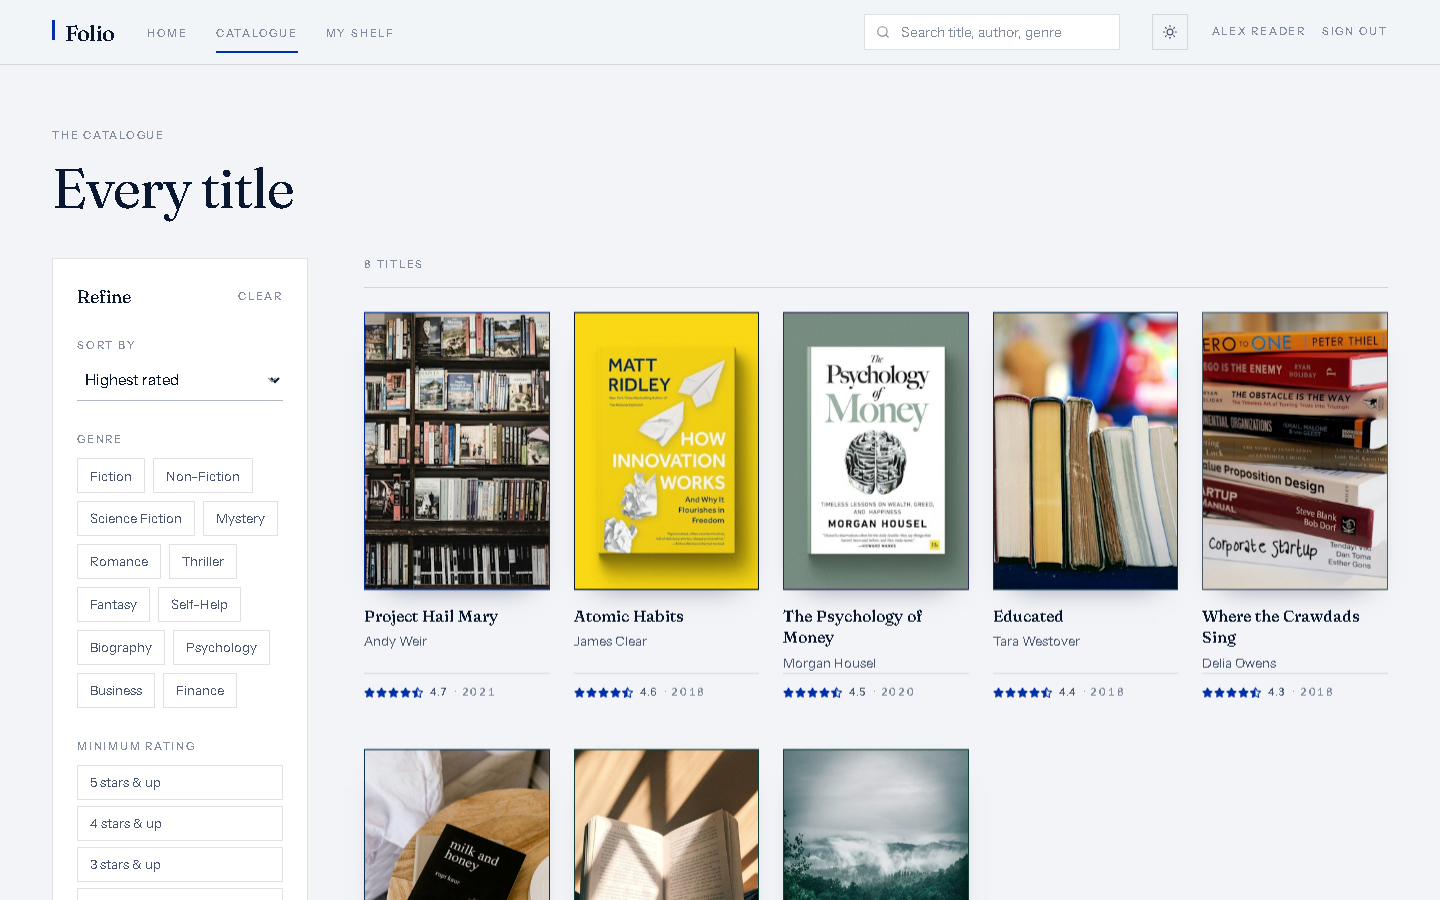
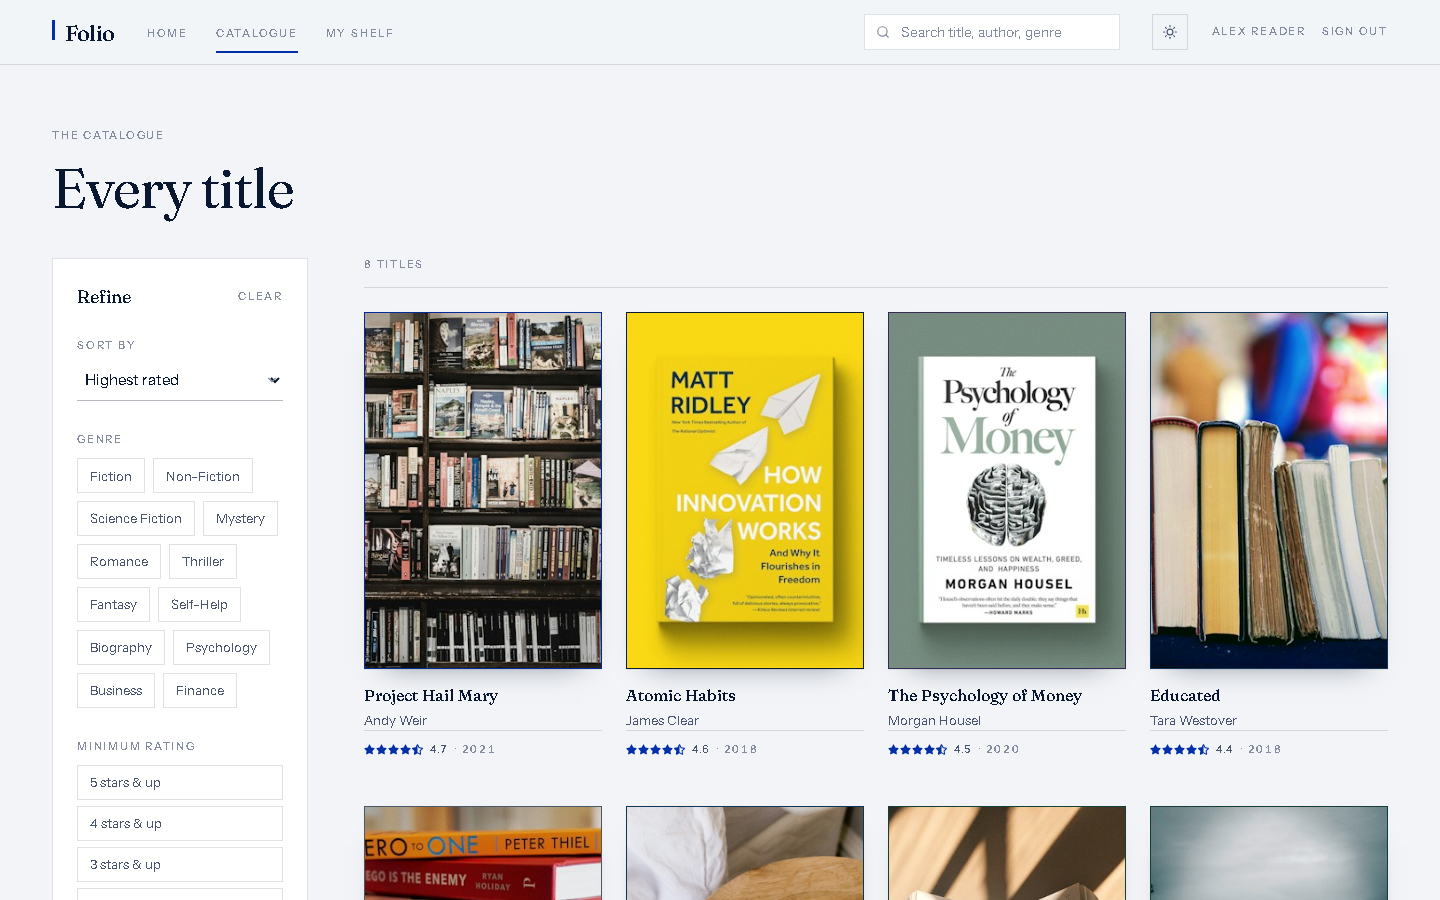
feat: 4-up catalogue grid and print stylesheet

diff --git a/src/index.css b/src/index.css
@@ -344,6 +344,71 @@ a:hover .cover-art,
   filter: saturate(1) contrast(1.03);
 }
 
+/* --------------------------------------------------------------- print --- */
+/* A book page should print like a catalogue entry: no chrome, no dark ink,
+   and nothing broken across a page. */
+
+@media print {
+  html,
+  body {
+    background: #fff !important;
+    color: #000 !important;
+  }
+
+  /* The paper grain and every screen-only surface. */
+  body::after {
+    display: none !important;
+  }
+
+  /* Chrome and screen-only surfaces. The page wrapper is deliberately NOT
+     hidden — it holds the content. */
+  header,
+  footer,
+  nav,
+  .progress-rule,
+  .Toastify__toast {
+    display: none !important;
+  }
+
+  /* Entrance animations would otherwise leave content at opacity 0. */
+  *,
+  *::before,
+  *::after {
+    animation: none !important;
+    transition: none !important;
+  }
+
+  .cover {
+    box-shadow: none !important;
+    border: 1px solid #bbb !important;
+    break-inside: avoid;
+  }
+
+  /* Keep a book and its details on one page. */
+  article,
+  figure,
+  section {
+    break-inside: avoid;
+  }
+
+  /* Buttons that act on the page are dead weight on paper. */
+  button,
+  [role='button'] {
+    display: none !important;
+  }
+
+  /* Show where a link points, since a printed page has no hover. */
+  main a[href^='/']::after {
+    content: '';
+  }
+
+  main a[href^='http']::after {
+    content: ' (' attr(href) ')';
+    font-size: 9pt;
+    color: #555;
+  }
+}
+
 @media (prefers-reduced-motion: reduce) {
   *,
   *::before,

diff --git a/src/components/books/BookGrid.jsx b/src/components/books/BookGrid.jsx
@@ -15,8 +15,8 @@ const Placeholder = () => (
 const BookGrid = ({ books, loading = false, count }) => {
   if (loading) {
     return (
-      <div className="grid grid-cols-2 gap-x-6 gap-y-12 sm:grid-cols-3 lg:grid-cols-4 xl:grid-cols-5">
-        {Array.from({ length: count ?? 10 }, (_, i) => (
+      <div className="grid grid-cols-2 gap-x-6 gap-y-12 sm:grid-cols-3 lg:grid-cols-4">
+        {Array.from({ length: count ?? 8 }, (_, i) => (
           <Placeholder key={i} />
         ))}
       </div>
@@ -32,7 +32,7 @@ const BookGrid = ({ books, loading = false, count }) => {
   }
 
   return (
-    <div className="stagger grid grid-cols-2 gap-x-6 gap-y-12 sm:grid-cols-3 lg:grid-cols-4 xl:grid-cols-5">
+    <div className="stagger grid grid-cols-2 gap-x-6 gap-y-12 sm:grid-cols-3 lg:grid-cols-4">
       {books.map((book) => (
         <BookCard key={book.id} book={book} />
       ))}
